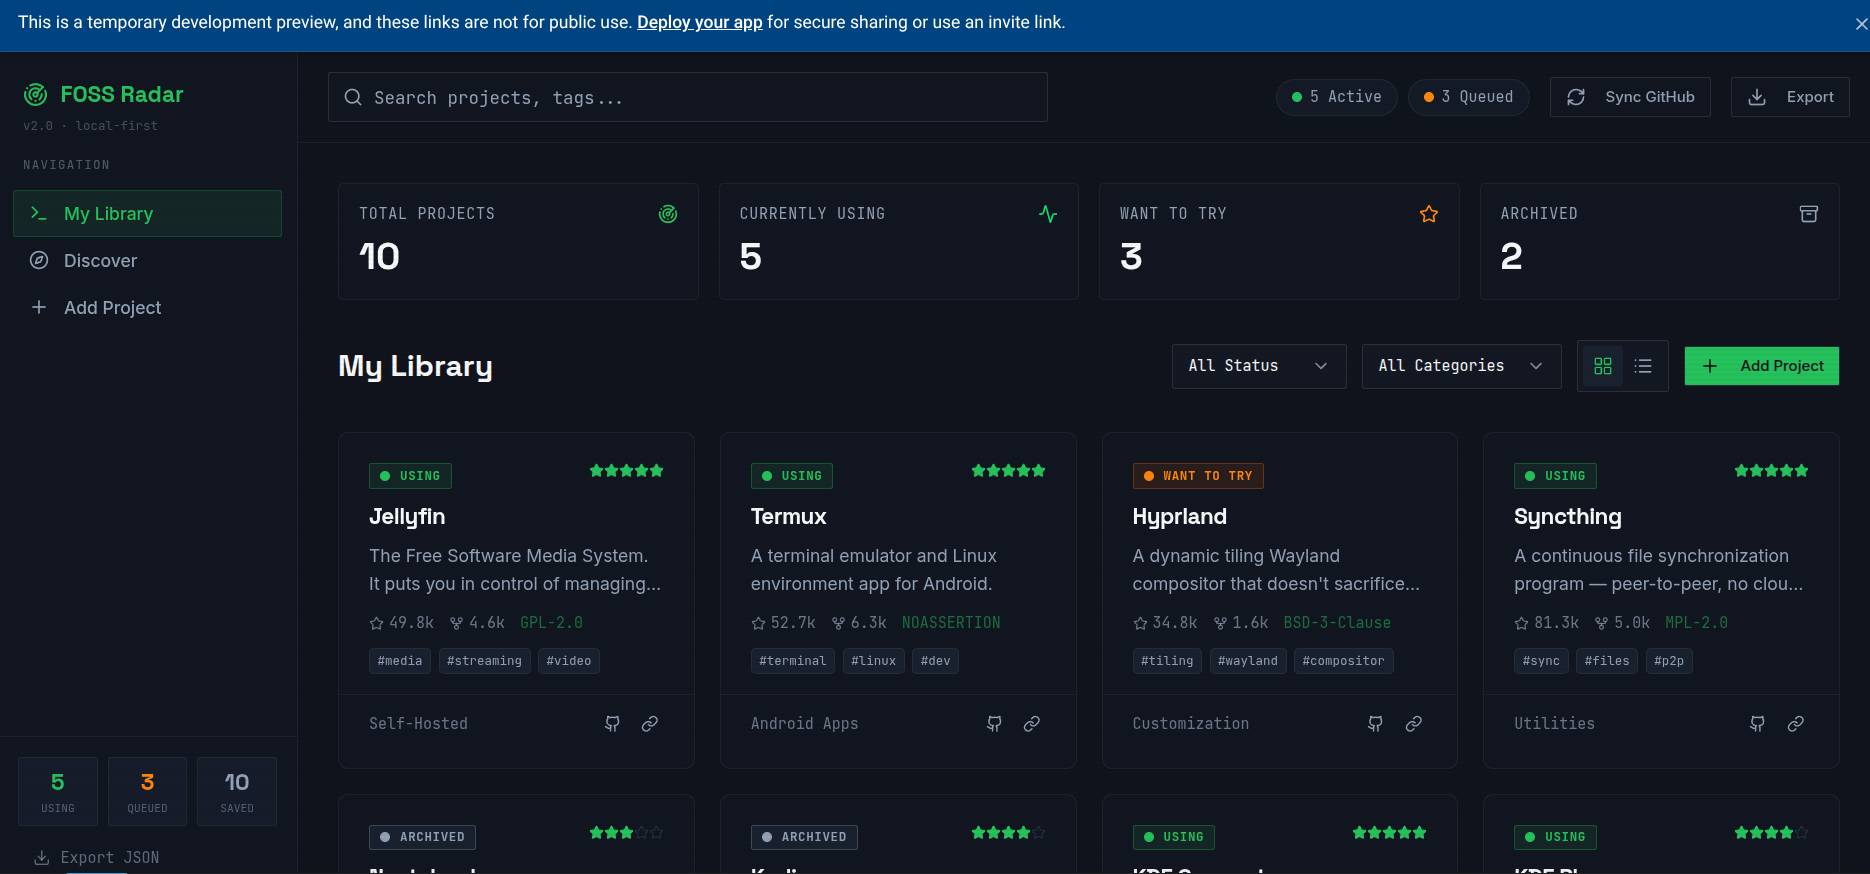
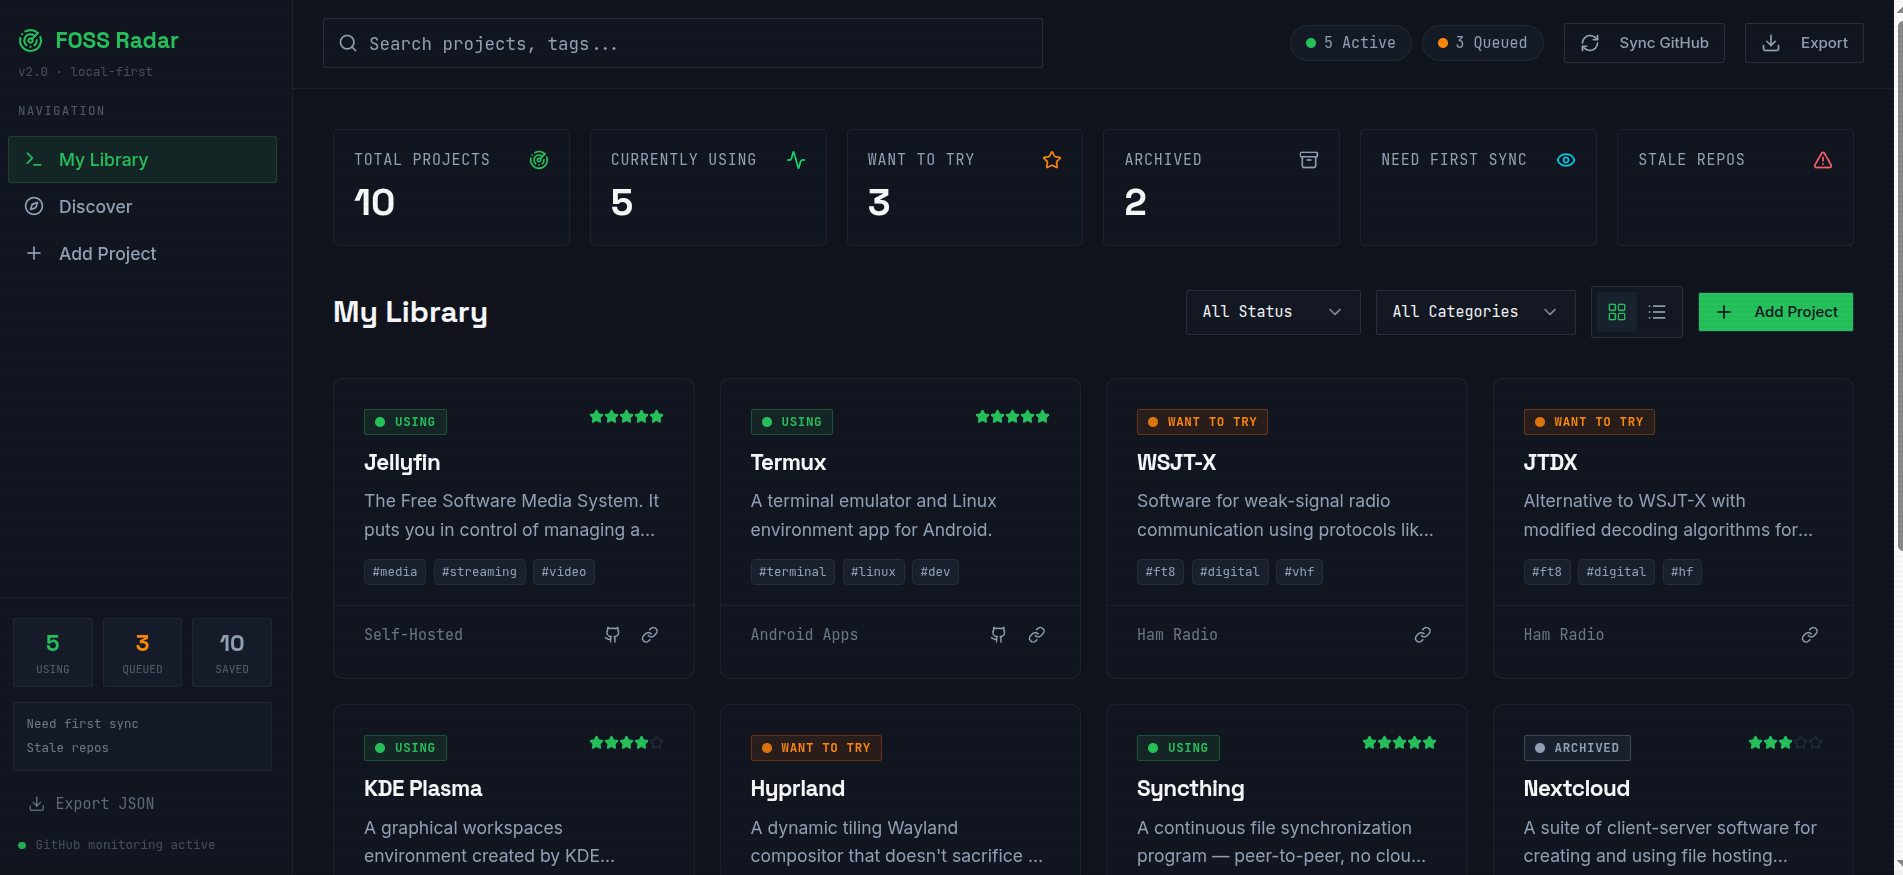
Update README starter library details and refresh screenshot

diff --git a/README.md b/README.md
@@ -15,6 +15,19 @@ FOSS Radar is a local-first single-user app for people who keep long mental list
 - Export the full library as JSON from `/api/export`
 - Seed a starter library on first launch so the app is immediately usable
 
+## Starter Library
+
+A fresh database currently seeds with 8 starter projects:
+
+- Jellyfin
+- Termux
+- KDE Plasma
+- Hyprland
+- Syncthing
+- Nextcloud
+- KDE Connect
+- Kodi
+
 ## Product Shape
 
 The app is opinionated in a useful way: